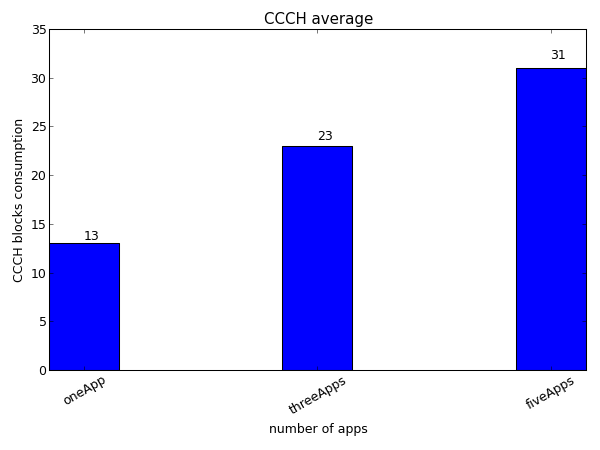
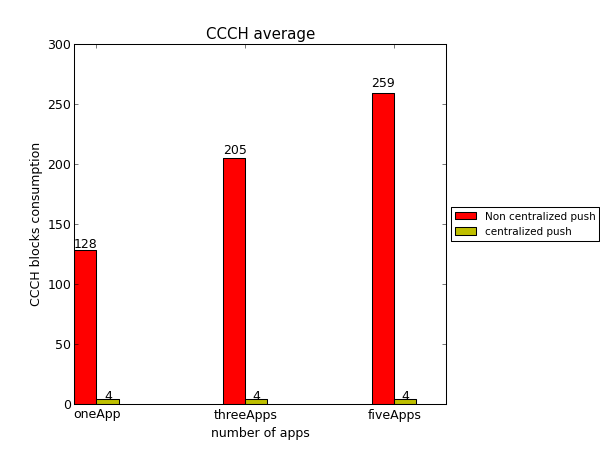
finish & change some cal methods: non centralized push and centralized push

diff --git a/project/calModule/cal.py b/project/calModule/cal.py
@@ -8,7 +8,7 @@ from rdEmulatorConf import *
 from exportImg import *
 
 #get emulator conf
-TBF_DELAY, TBF_DELAY_TEST_START, TBF_DELAY_TEST_END, EMULATE_TIMES, NUMBER_OF_APP = readEmulatorConf()
+TBF_DELAY, TBF_DELAY_TEST_START, TBF_DELAY_TEST_END, EMULATE_TIMES, NUMBER_OF_APP, CEN_PUSH_HB_START, CEN_PUSH_HB_END = readEmulatorConf()
 
 def __initApps():
     """a method to read in conf and initial all apps according to the conf file"""
@@ -18,30 +18,45 @@ def __initApps():
     cnt = 0
     while (cnt < NUMBER_OF_APP):
         app = {}
-        app["HBTypes"] = int(random.uniform(appConfs[cnt]["HBTypesStart"], appConfs[cnt]["HBTypesEnd"]))
+        #front end conf
+        app["FEHBTypes"] = int(random.uniform(appConfs[cnt]["FEHBTypesStart"], appConfs[cnt]["FEHBTypesEnd"]+1))
         type = 0
-        app["HBTimes"] = []
-        while (type < app["HBTypes"]):
-            app["HBTimes"].append(int(random.uniform(appConfs[cnt]["HBTimesStart"], appConfs[cnt]["HBTimesEnd"])))
+        app["FEHBTimes"] = []
+        while (type < app["FEHBTypes"]):
+            app["FEHBTimes"].append(int(random.uniform(appConfs[cnt]["FEHBTimesStart"], appConfs[cnt]["FEHBTimesEnd"]+1)))
             type += 1
-        app["HBSize"] = int(random.uniform(appConfs[cnt]["HBSizeStart"], appConfs[cnt]["HBSizeEnd"]))
+        
+        #back end conf
+        app["BEHBTypes"] = int(random.uniform(appConfs[cnt]["BEHBTypesStart"], appConfs[cnt]["BEHBTypesEnd"]+1))
+        type = 0
+        app["BEHBTimes"] = []
+        while (type < app["BEHBTypes"]):
+            app["BEHBTimes"].append(int(random.uniform(appConfs[cnt]["BEHBTimesStart"], appConfs[cnt]["BEHBTimesEnd"]+1)))
+            type += 1
         apps.append(app)
         cnt += 1
-        
+    
+    #shuffle all the apps
+    random.shuffle(apps)
     return apps
 
-def __isTimeToHB(time, app):
-    """a method to judge an app needs to send heart beat packet now or not"""
+def __calTimeSlot(timeSlot, app, useFrontConf):
+    """a method to cal all the time of an app's heart beating according to its conf"""
     
-    if (time == 0):
-        return True
-    
-    cnt = 0
-    while (cnt < app["HBTypes"]):
-        if (app["HBTimes"][cnt] % time == 0):
-            return True
-        cnt += 1
-    return False
+    if (useFrontConf):
+        HBTypes = app["FEHBTypes"]
+        app["HBTimes"] = app["FEHBTimes"]
+    else:
+        HBTypes = app["BEHBTypes"]
+        app["HBTimes"] = app["BEHBTimes"]
+    type = 0
+    while (type < HBTypes):
+        cnt = 0
+        while (cnt * app["HBTimes"][type] < 3600):
+            time = cnt * app["HBTimes"][type]
+            timeSlot[time] = 1
+            cnt += 1
+        type += 1
 
 def __countCCCHBlocks(timeSlot):
     """a method to CCCHBlocks"""
@@ -59,44 +74,81 @@ def __countCCCHBlocks(timeSlot):
         time += 1
     return blocks
     
-def __calCCCH(apps, appNumbers):
+def __calCCCH(apps, appNumbers, cen_push_hb):
     """a method to cal ccch"""
     
+    #non centralized push
     timeSlotForHB = [0 for k in range(60*60)]    #a timeSlotForHB represents 3600 seconds, only has 0 or 1 in it
-    timeSlotForHBPkt = [0 for k in range(60*60)]    #a timeSlotForHBPkt represents 3600 seconds, it stores the sum of hear beat packets size
     
+    num = 0
+    while (num < appNumbers):
+        #the first app needs to use the front end conf, while the other apps need to use the back end conf
+        if (num == 0):
+            useFrontConf = True
+        else:
+            useFrontConf = False
+        __calTimeSlot(timeSlotForHB, apps[num], useFrontConf)
+        num += 1
+    
+    #centralized push 
+    timeSlotForCenHB = [0 for k in range(60*60)]    #a timeSlotForCenHB represents 3600 seconds, only has 0 or 1 in it
     time = 0
-    while (time < 3600):
-        num = 0
-        while (num < appNumbers):
-            if (__isTimeToHB(time, apps[num])):
-                timeSlotForHB[time] = 1
-                timeSlotForHBPkt[time] += apps[num]["HBSize"]
-            num += 1
-        time += 1
+    while ((time + cen_push_hb - 1) < 3600):
+        if (sum(timeSlotForHB[time : time + cen_push_hb]) > 0):
+            timeSlotForCenHB[time + cen_push_hb - 1] = 1
+        time += cen_push_hb
     
-    return __countCCCHBlocks(timeSlotForHB)
+    return __countCCCHBlocks(timeSlotForHB), __countCCCHBlocks(timeSlotForCenHB)
     
 def emulate():
     """a method to emulate: 1, 3, 5 apps' heart beat process"""
     
     emulationTimes = 1
-    oneAppCCCHSum = 0
-    ThreeAppsCCCHSum = 0
-    FiveAppsCCCHSum = 0
+    #for non centralized push
+    oneAppCCCHNonCenSum = 0
+    ThreeAppsCCCHNonCenSum = 0
+    FiveAppsCCCHNonCenSum = 0
+    
+    #for centralized push
+    oneAppCCCHCenSum = 0
+    ThreeAppsCCCHCenSum = 0
+    FiveAppsCCCHCenSum = 0
     while (emulationTimes <= EMULATE_TIMES):
         apps = __initApps()
-        oneAppCCCHSum += __calCCCH(apps, 1)
-        ThreeAppsCCCHSum += __calCCCH(apps, 3)
-        FiveAppsCCCHSum += __calCCCH(apps, 5)
+        cen_push_hb = int(random.uniform(CEN_PUSH_HB_START, CEN_PUSH_HB_END))
+        nonCenPush, cenPush = __calCCCH(apps, 1, cen_push_hb)
+        
+        oneAppCCCHNonCenSum += nonCenPush
+        oneAppCCCHCenSum += cenPush
+        
+        nonCenPush, cenPush = __calCCCH(apps, 3, cen_push_hb)
+        ThreeAppsCCCHNonCenSum += nonCenPush
+        ThreeAppsCCCHCenSum += cenPush
+        
+        nonCenPush, cenPush = __calCCCH(apps, 5, cen_push_hb)
+        FiveAppsCCCHNonCenSum += nonCenPush
+        FiveAppsCCCHCenSum += cenPush
+        
         emulationTimes += 1
     
-    oneAppCCCHAvg = oneAppCCCHSum / EMULATE_TIMES
-    ThreeAppsCCCHAvg = ThreeAppsCCCHSum / EMULATE_TIMES
-    FiveAppsCCCHAvg = FiveAppsCCCHSum / EMULATE_TIMES
+    oneAppCCCHNonCenAvg = oneAppCCCHNonCenSum / EMULATE_TIMES
+    oneAppCCCHCenAvg = oneAppCCCHCenSum / EMULATE_TIMES
     
-    print "oneAppCCCHAvg: %d" % oneAppCCCHAvg
-    print "ThreeAppsCCCHAvg: %d" % ThreeAppsCCCHAvg
-    print "FiveAppsCCCHAvg: %d" % FiveAppsCCCHAvg
+    ThreeAppsCCCHNonCenAvg = ThreeAppsCCCHNonCenSum / EMULATE_TIMES
+    ThreeAppsCCCHCenAvg = ThreeAppsCCCHCenSum / EMULATE_TIMES
     
-    exportCCCHAvgToPNG([oneAppCCCHAvg, ThreeAppsCCCHAvg, FiveAppsCCCHAvg])
+    FiveAppsCCCHNonCenAvg = FiveAppsCCCHNonCenSum / EMULATE_TIMES
+    FiveAppsCCCHCenAvg = FiveAppsCCCHCenSum / EMULATE_TIMES
+    
+    print "------------------Non centralized push averages-------------"
+    print "oneAppCCCHNonCenAvg: %d" % oneAppCCCHNonCenAvg
+    print "ThreeAppsCCCHNonCenAvg: %d" % ThreeAppsCCCHNonCenAvg
+    print "FiveAppsCCCHNonCenAvg: %d" % FiveAppsCCCHNonCenAvg
+    
+    print "------------------Centralized push averages-------------"
+    print "oneAppCCCHCenAvg: %d" % oneAppCCCHCenAvg
+    print "ThreeAppsCCCHCenAvg: %d" % ThreeAppsCCCHCenAvg
+    print "FiveAppsCCCHCenAvg: %d" % FiveAppsCCCHCenAvg
+    
+    exportCCCHAvgToPNG([oneAppCCCHNonCenAvg, ThreeAppsCCCHNonCenAvg, FiveAppsCCCHNonCenAvg], 
+        [oneAppCCCHCenAvg, ThreeAppsCCCHCenAvg, FiveAppsCCCHCenAvg])

diff --git a/project/calModule/exportImg.py b/project/calModule/exportImg.py
@@ -3,6 +3,8 @@
 
 import matplotlib.pyplot as plt 
 import os
+import numpy as np
+from matplotlib.font_manager import FontProperties
 
 def __autolabel(plt, rects):
     """a method to label the height of the bar in the bar chart"""
@@ -10,24 +12,44 @@ def __autolabel(plt, rects):
     for rect in rects:
         height = int(rect.get_height())
         if (height > 0):
-            plt.text(rect.get_x()+rect.get_width()/2., 1.03*height, '%s' % int(height))
+            plt.text(rect.get_x()+rect.get_width()/4., 1.03*height, '%s' % int(height))
 
 
-def exportCCCHAvgToPNG(CCCHAvgs):
+def exportCCCHAvgToPNG(CCCHNonCenAvgs, CCCHCenAvgs):
         """a method to export CCCHAvgs to bar chart"""
 
-        #browser statistics
+        N = 3
+        ind = np.arange(N)  # the x locations for the groups
+        width = 0.15       # the width of the bars
+
+        fig = plt.figure()
+        ax = fig.add_subplot(111)
+        rects1 = ax.bar(ind, CCCHNonCenAvgs, width, color='r')
+
+        rects2 = ax.bar(ind+width, CCCHCenAvgs, width, color='y')
+    
         plt.title("CCCH average")
         plt.xlabel('number of apps')
         plt.ylabel('CCCH blocks consumption')
         
-        table_headers = ["oneApp", "threeApps", "fiveApps"]
-        plt.xticks(range(0, len(table_headers)), table_headers, rotation=30)
-        eps = 1e-7
-        bar_height = CCCHAvgs
-        rect = plt.bar(left = range(0, len(table_headers)), height = bar_height, width = 0.3,align="center")
-        __autolabel(plt, rect)
-        plt.tight_layout()
+        ax.set_xticks(ind+width)
+        ax.set_xticklabels(("oneApp", "threeApps", "fiveApps"))
+
+        fontP = FontProperties()
+        fontP.set_size('small')
+        box = ax.get_position()
+        ax.set_position([box.x0, box.y0, box.width * 0.8, box.height])
+        ax.legend((rects1[0], rects2[0]), ('Non centralized push', 'centralized push'), prop = fontP, loc='center left', bbox_to_anchor=(1, 0.5))
+
+        def autolabel(rects):
+            # attach some text labels
+            for rect in rects:
+                height = rect.get_height()
+                ax.text(rect.get_x()+rect.get_width()/2., 1.02*height, '%d'%int(height),
+                        ha='center', va='bottom')
+
+        autolabel(rects1)
+        autolabel(rects2)
         path = os.path.dirname(__file__)
         png_file_name = path + "/CCCHAvgs_consumtion.png"
         plt.savefig(png_file_name, dpi=75)

diff --git a/project/calModule/rdAppConf.py b/project/calModule/rdAppConf.py
@@ -21,12 +21,16 @@ def readAppConf():
         stringData = fConf.read()
         
         appConf = {}
-        appConf["HBTypesStart"] = int(stringData.split("\n")[0].split(":")[1].split(",")[0])
-        appConf["HBTypesEnd"] = int(stringData.split("\n")[0].split(":")[1].split(",")[1])
-        appConf["HBTimesStart"] = int(stringData.split("\n")[1].split(":")[1].split(",")[0])
-        appConf["HBTimesEnd"] = int(stringData.split("\n")[1].split(":")[1].split(",")[1])
-        appConf["HBSizeStart"] = int(stringData.split("\n")[2].split(":")[1].split(",")[0])
-        appConf["HBSizeEnd"] = int(stringData.split("\n")[2].split(":")[1].split(",")[1])
+        #front end
+        appConf["FEHBTypesStart"] = int(stringData.split("\n")[1].split(":")[1].split(",")[0])
+        appConf["FEHBTypesEnd"] = int(stringData.split("\n")[1].split(":")[1].split(",")[1])
+        appConf["FEHBTimesStart"] = int(stringData.split("\n")[2].split(":")[1].split(",")[0])
+        appConf["FEHBTimesEnd"] = int(stringData.split("\n")[2].split(":")[1].split(",")[1])
+        #back end
+        appConf["BEHBTypesStart"] = int(stringData.split("\n")[5].split(":")[1].split(",")[0])
+        appConf["BEHBTypesEnd"] = int(stringData.split("\n")[5].split(":")[1].split(",")[1])
+        appConf["BEHBTimesStart"] = int(stringData.split("\n")[6].split(":")[1].split(",")[0])
+        appConf["BEHBTimesEnd"] = int(stringData.split("\n")[6].split(":")[1].split(",")[1])
         confs.append(appConf)
         fConf.close()
         cnt += 1

diff --git a/project/calModule/rdEmulatorConf.py b/project/calModule/rdEmulatorConf.py
@@ -22,6 +22,8 @@ def readEmulatorConf():
     tbf_delay_test_end = int(stringData.split("\n")[1].split(":")[1].split(",")[1])
     emulate_times = int(stringData.split("\n")[2].split(":")[1])
     number_of_apps = int(stringData.split("\n")[3].split(":")[1])
+    cen_push_start = int(stringData.split("\n")[4].split(":")[1].split(",")[0])
+    cen_push_end = int(stringData.split("\n")[4].split(":")[1].split(",")[1])
     fConf.close()
     
-    return tbf_delay, tbf_delay_test_start, tbf_delay_test_end, emulate_times, number_of_apps
+    return tbf_delay, tbf_delay_test_start, tbf_delay_test_end, emulate_times, number_of_apps, cen_push_start, cen_push_end
